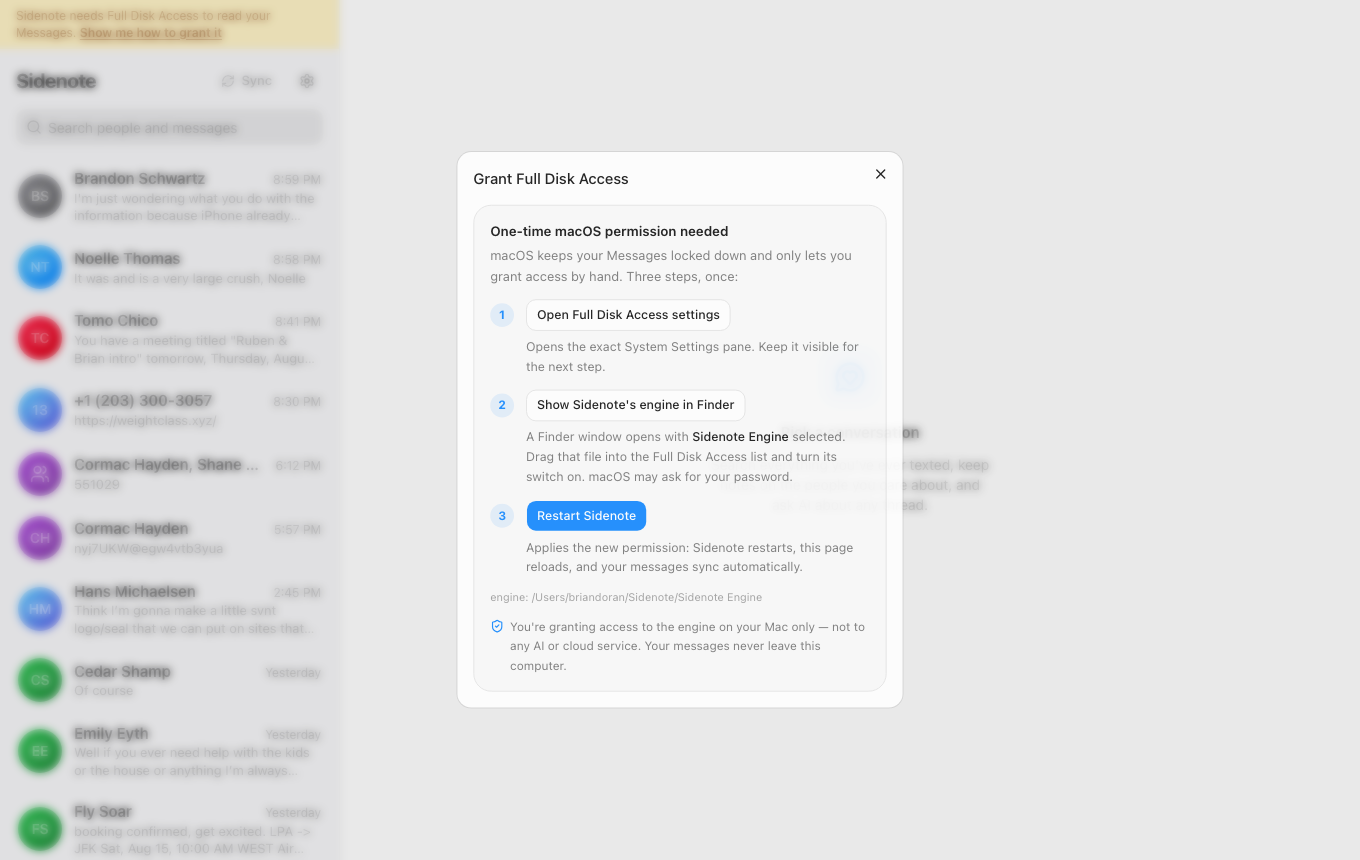
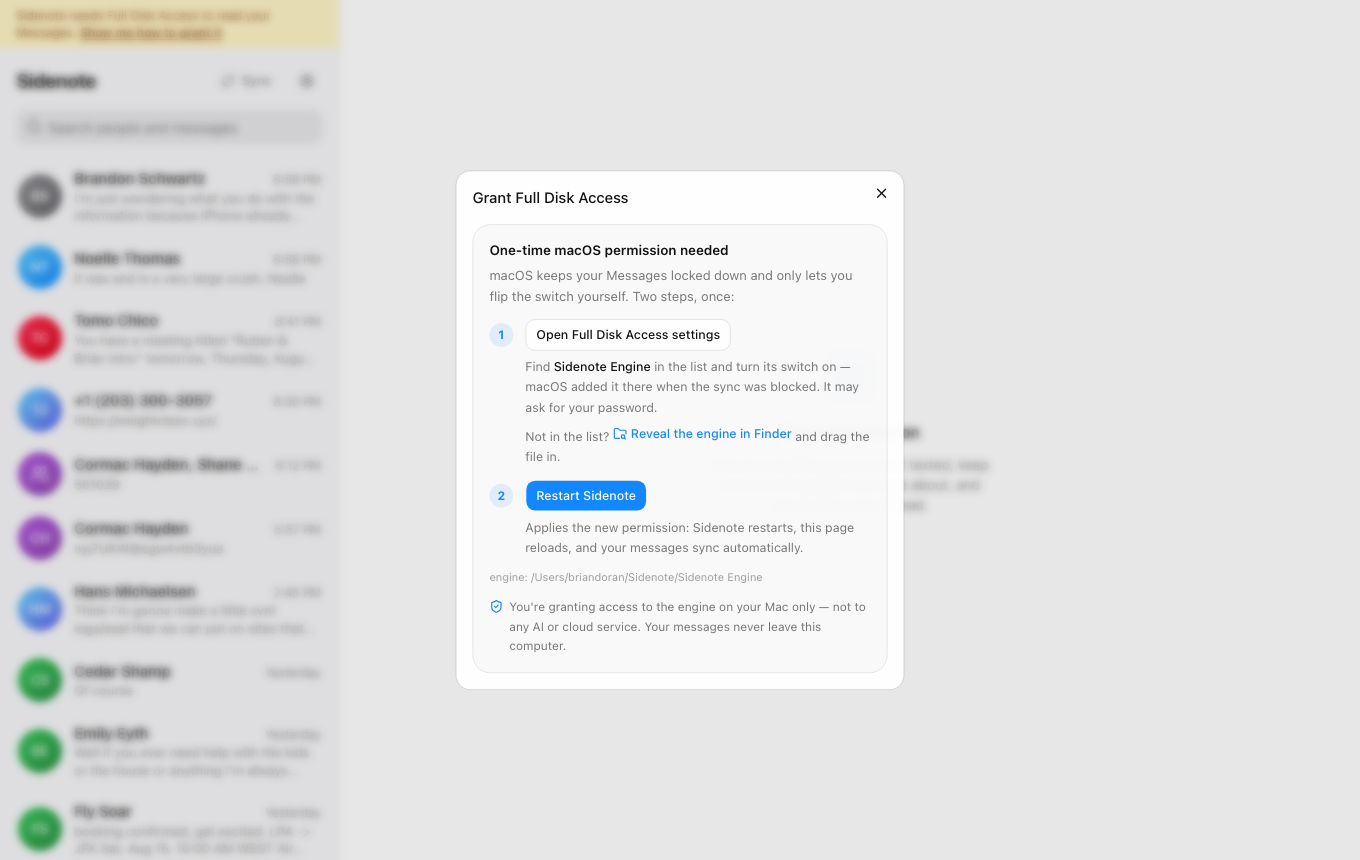
Lead the Full Disk Access guide with flip-the-switch
A blocked sync makes macOS register the engine in the Full Disk Access
list automatically (verified in TCC.db), so the common path is: open the
pane, flip the Sidenote Engine switch, restart. The Finder reveal + drag
is now only the 'not in the list?' fallback.

Changed region(s): [[0.3397, 0.1814, 0.6176, 0.786]]

diff --git a/src/components/fda-guide.tsx b/src/components/fda-guide.tsx
@@ -54,26 +54,21 @@ export function FdaGuide({ engine }: { engine?: string | null }) {
           Open Full Disk Access settings
         </Button>
       ),
-      hint: "Opens the exact System Settings pane. Keep it visible for the next step.",
-    },
-    {
-      icon: <FolderSearch className="size-4" />,
-      button: (
-        <Button
-          size="sm"
-          variant="outline"
-          onClick={() => fetch("/api/reveal-engine", { method: "POST" })}
-          className="h-8 rounded-lg text-[12.5px]"
-        >
-          Show Sidenote&apos;s engine in Finder
-        </Button>
-      ),
       hint: (
         <>
-          A Finder window opens with{" "}
-          <span className="font-medium text-foreground">{engineName}</span>{" "}
-          selected. Drag that file into the Full Disk Access list and turn its
-          switch on. macOS may ask for your password.
+          Find <span className="font-medium text-foreground">{engineName}</span>{" "}
+          in the list and turn its switch on — macOS added it there when the
+          sync was blocked. It may ask for your password.
+          <span className="mt-1.5 block">
+            Not in the list?{" "}
+            <button
+              onClick={() => fetch("/api/reveal-engine", { method: "POST" })}
+              className="inline-flex items-center gap-1 font-medium text-[#0a84ff] hover:underline"
+            >
+              <FolderSearch className="size-3.5" /> Reveal the engine in Finder
+            </button>{" "}
+            and drag the file in.
+          </span>
         </>
       ),
     },
@@ -115,8 +110,8 @@ export function FdaGuide({ engine }: { engine?: string | null }) {
         One-time macOS permission needed
       </p>
       <p className="mt-1 text-[13px] leading-relaxed text-muted-foreground">
-        macOS keeps your Messages locked down and only lets you grant access by
-        hand. Three steps, once:
+        macOS keeps your Messages locked down and only lets you flip the switch
+        yourself. Two steps, once:
       </p>
       <ol className="mt-3 space-y-3">
         {steps.map((s, i) => (

diff --git a/src/components/sidenote-app.tsx b/src/components/sidenote-app.tsx
@@ -304,7 +304,7 @@ function SetupScreen({
             First sync needs one macOS permission (
             <span className="font-medium text-foreground">Full Disk Access</span>
             ). If it&apos;s missing, Sidenote will walk you through granting it —
-            three clicks, one time. Your messages never leave this computer.
+            two steps, one time. Your messages never leave this computer.
           </p>
         )}
       </div>
